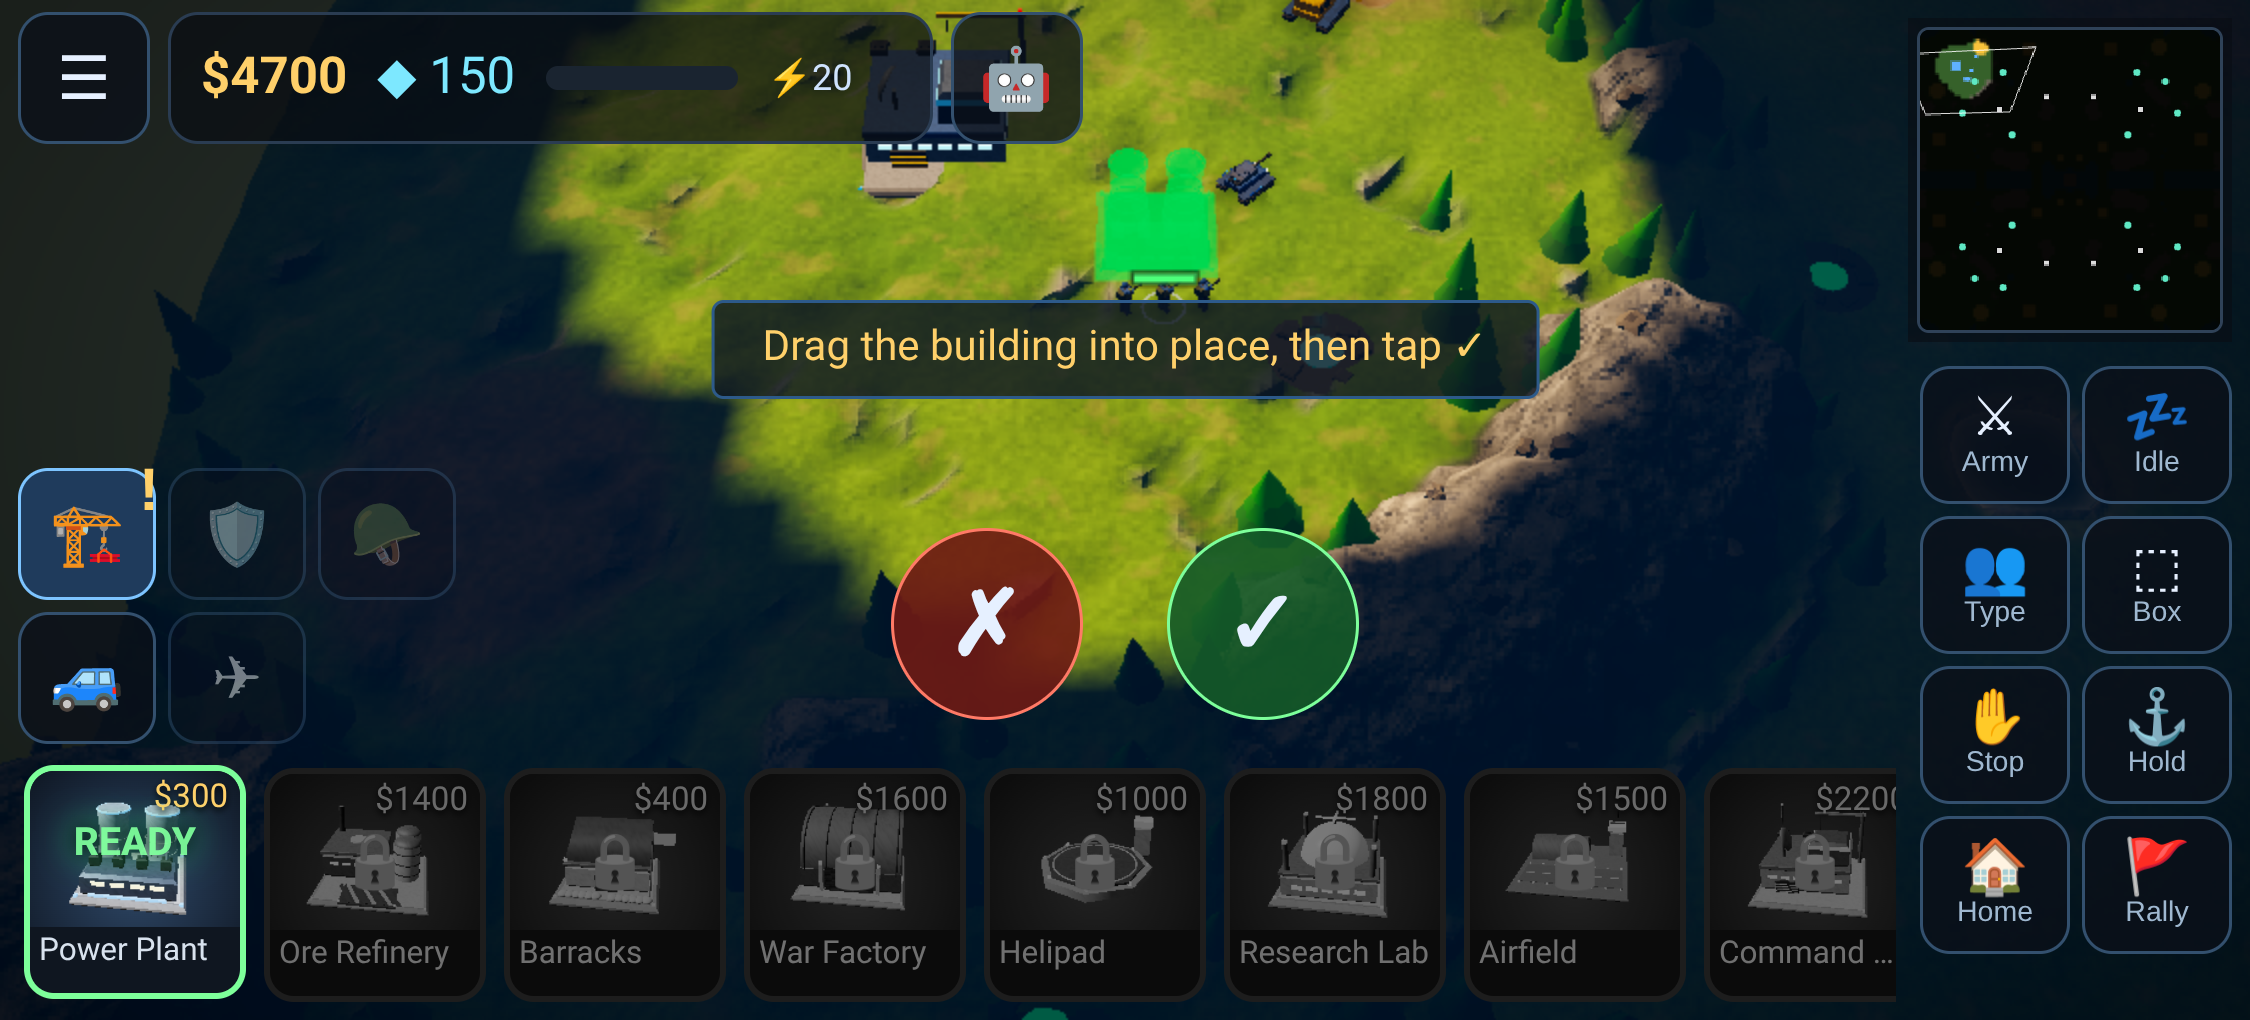
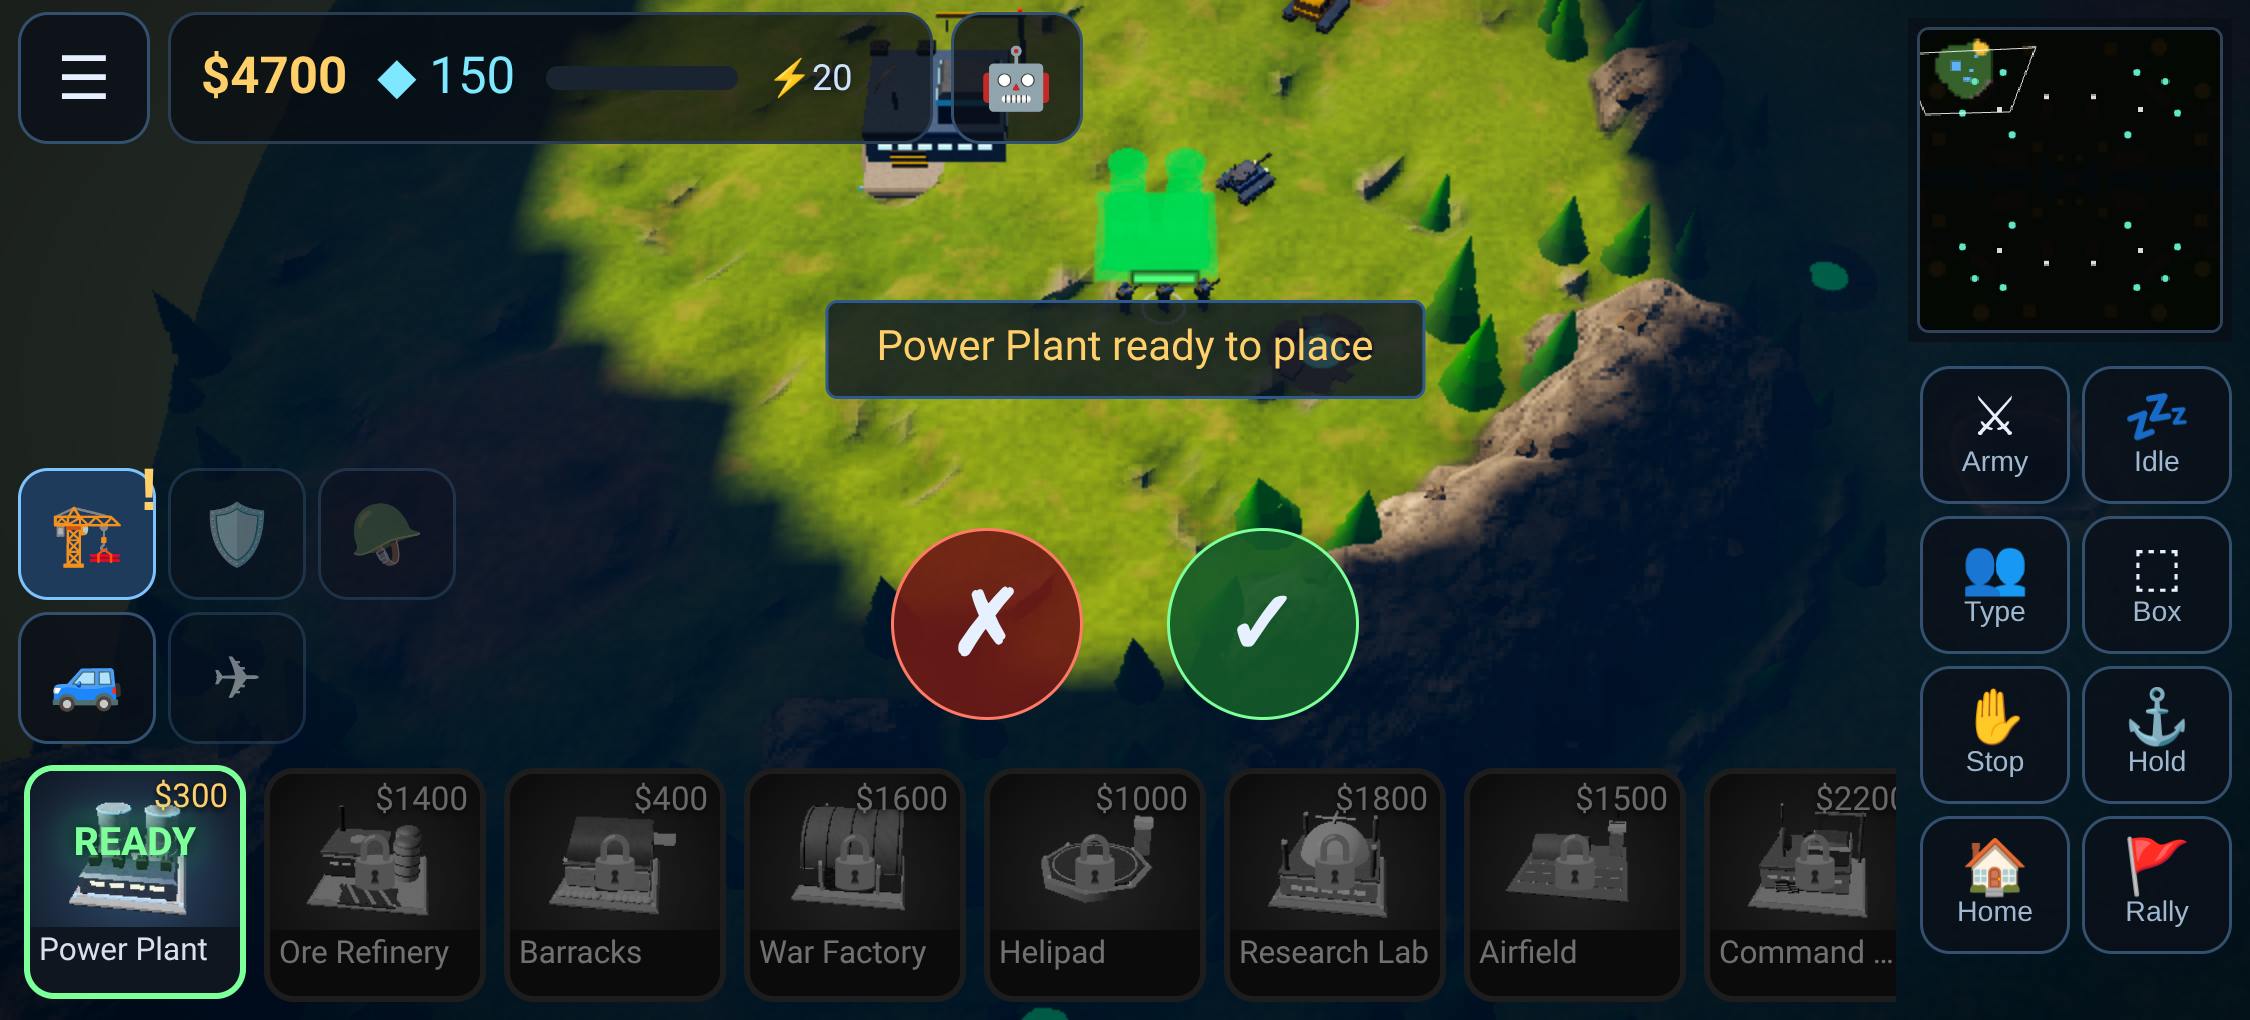
v6.1: mobile play for iPhone Safari — README how-to, helper test fix, screenshots

diff --git a/test/mobile-play-test.js b/test/mobile-play-test.js
@@ -97,8 +97,8 @@ const ROOT = 'file://' + path.resolve(__dirname, '../index.html'), PART = proces
     const en = await pg.evaluate(() => { const a = myArmy(); for (const u of a) { u.idleT = 9; u.order = 'idle'; u.path = []; } const u0 = a[0]; const e = addU('rifle', 1, u0.x + 7, u0.y); MOB.engT = {}; mobAuto(); return { n: a.length, ord: a.map(u => u.order), e: !!e }; });
     ok(en.ord.filter(o => o === 'amove').length >= 1, 'idle auto-engage: idle army attack-moves at a nearby visible enemy ' + JSON.stringify(en));
     // power helper
-    await pg.evaluate(() => { const P = G.players[ME]; P.cr += 3000; for (const e of G.ents) if (e.team === ME && e.t === 'power') e.hp = 0; }); await tick(2); await pg.waitForTimeout(1200);
-    const pv = await pg.evaluate(() => ({ low: G.players[ME].pow, vis: getComputedStyle(document.getElementById('mPowerBtn')).display }));
+    await pg.evaluate(() => { const P = G.players[ME]; P.cr += 3000; for (const e of G.ents) if (e.team === ME && e.t === 'power') e.hp = 0; const h = mobHome(); for (const t of ['factory', 'tech']) { const sp = aiSpot(P, t, h, []); if (sp) addB(t, ME, sp[0], sp[1], true); } }); await tick(40); await pg.waitForTimeout(1200);
+    const pv = await pg.evaluate(() => ({ low: G.players[ME].pow, pp: G.ents.filter(e => e.team === ME && e.kind === 'b').map(e => e.t + ':' + Math.round(e.hp)).join(','), vis: getComputedStyle(document.getElementById('mPowerBtn')).display }));
     ok(pv.vis !== 'none', 'power helper button appears when power is low ' + JSON.stringify(pv));
     const np0 = await pg.evaluate(() => G.ents.filter(e => e.team === ME && e.t === 'power' && e.hp > 0).length);
     await pg.tap('#mPowerBtn'); await pg.waitForTimeout(300); await tick(30 * 14); await tick(2); await tick(2);

diff --git a/README.md b/README.md
@@ -42,3 +42,11 @@ The `test/` folder is harmless on Pages; delete it from a release branch if you 
 - `node test/net-test.js [minutes]` — lockstep determinism (multi-peer fake transport, replay ×2, disconnect, negative control)
 - `node --experimental-websocket test/online-e2e.js` with `MODE=local` — two real Chrome tabs through the online lobby
 - `bash test/batch.sh si 10` — Chief SI vs Hard win rate
+
+## 📱 Mobile (v6.1)
+Phones are auto-detected (coarse pointer + small screen); toggle with **📱 Touch controls** on the home screen (or `?mobile=1` / `?mobile=0`). Play in landscape.
+- **Camera:** drag empty ground to pan (with glide), pinch to zoom, tap the minimap to jump.
+- **Build:** the card bar at the bottom has tabs 🏗 Structures, 🛡 Defenses, 🪖 Infantry, 🚙 Vehicles, ✈ Aircraft. Tap a card to build or queue it. When a structure is finished, a ghost appears: drag it to a green spot, then tap ✓ (✗ cancels). For walls, tap the Wall card, drag a line on the ground, then tap ✗ when done. Long-press a card for its info; long-press a queued card to cancel one.
+- **Army:** tap a unit to select it, and double-tap to select every unit of that type on screen. Buttons: ⚔ Army, 💤 Idle, 👥 Type, ⬚ Box (drag to box-select). Tap the ground to attack-move there; tap an enemy to attack it. ✋ Stop, ⚓ Hold, 🏠 Home (retreat), 🚩 Rally (then tap the ground).
+- **🤖 Helpers** (on by default, all toggleable; they only give orders to your own units): auto-rebuild lost harvesters, new units go to the rally point, idle units engage nearby enemies, optional auto-repair, and ⚡ +Power (one tap builds and places a Power Plant when power is low).
+- Can be installed to the Home Screen (PWA manifest). Online play: if iOS drops the connection while the app is in the background, tap **Rejoin** within ~20 s to get your seat back.
